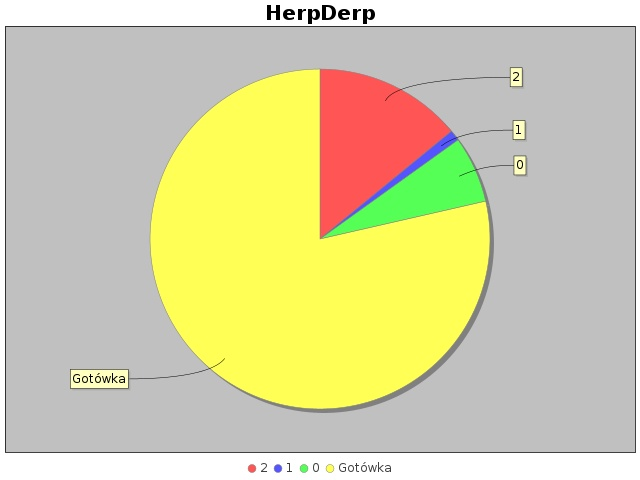
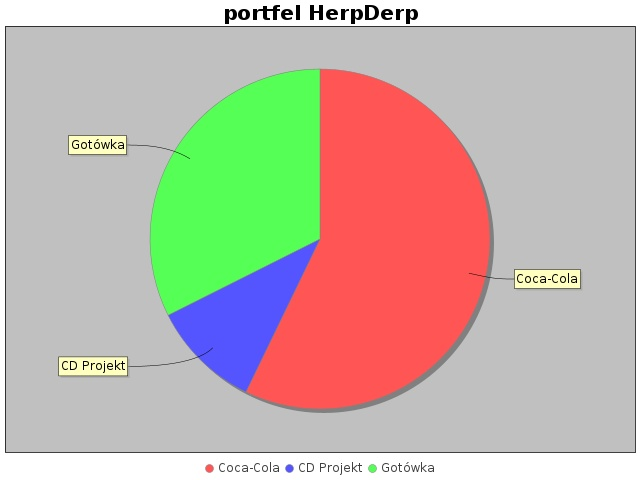
walletChart modal added

diff --git a/wallet-web/src/main/resources/templates/wallet-view.html b/wallet-web/src/main/resources/templates/wallet-view.html
@@ -8,8 +8,15 @@
     <span class="btn btn-outline-success">ZASILENIE PORTFELA ZAKONCZONO SUKCESEM</span>
   </div>
   <div>
-    <div>
-      <p th:text="'Gotówka: ' + ${cash}"></p>
+    <div class="d-flex justify-content-evenly">
+      <div>
+        <p th:text="'Gotówka: ' + ${cash}"></p>
+      </div>
+      <div>
+        <button type="button" class="btn btn-outline-dark btn-lg" data-bs-toggle="modal" data-bs-target="#exampleModal">
+          Pokaż skład portfela
+        </button>
+      </div>
     </div>
     <div>
       <table class="table">
@@ -44,3 +51,19 @@
   </div>
 </section>
 </html>
+<div class="modal fade" id="exampleModal" tabindex="-1" aria-labelledby="exampleModalLabel" aria-hidden="true">
+  <div class="modal-dialog modal-lg">
+    <div class="modal-content">
+      <div class="modal-header">
+        <h5 class="modal-title" id="exampleModalLabel">Modal title</h5>
+        <button type="button" class="btn-close" data-bs-dismiss="modal" aria-label="Close"></button>
+      </div>
+      <div class="modal-body">
+        <img th:src="@{/images/piechart.jpeg}">
+      </div>
+      <div class="modal-footer">
+        <button type="button" class="btn btn-secondary" data-bs-dismiss="modal">Close</button>
+      </div>
+    </div>
+  </div>
+</div>

diff --git a/wallet-web/src/main/resources/templates/fragments/base.html b/wallet-web/src/main/resources/templates/fragments/base.html
@@ -28,12 +28,6 @@
     <div class="nav">
       <a href="#" class="btn btn-outline-dark btn-lg" tabindex="-1" role="button" aria-disabled="true">stuff</a>
     </div>
-    <div class="nav">
-      <a href="#" class="btn btn-outline-dark btn-lg" tabindex="-1" role="button" aria-disabled="true">stuff</a>
-    </div>
-    <div class="nav">
-      <a href="#" class="btn btn-outline-dark btn-lg" tabindex="-1" role="button" aria-disabled="true">CENY WALUT</a>
-    </div>
     <div th:if="${session.isEmpty()}" class="nav">
       <a th:href="@{/login}" class="btn btn-outline-dark btn-lg" tabindex="-1" role="button" aria-disabled="true">LOGOWANIE</a>
     </div>
